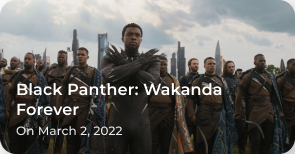
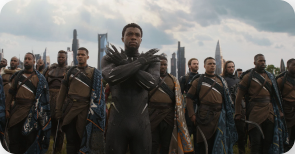
update

Changed region(s): [[0.0305, 0.5195, 0.7627, 0.6234], [0.0305, 0.8052, 0.4271, 0.8831], [0.0305, 0.6494, 0.2746, 0.7532]]

diff --git a/lib/app/pages/home_page.dart b/lib/app/pages/home_page.dart
@@ -1,6 +1,7 @@
 import 'package:flutter/material.dart';
 import 'package:flutter_svg/flutter_svg.dart';
 import 'package:template_project_flutter/app/core/theme/theme.dart';
+import 'package:template_project_flutter/app/data/models/home_carousel_models.dart';
 import 'package:template_project_flutter/widgets/home_card.dart';
 import 'package:template_project_flutter/widgets/home_carousel.dart';
 import 'package:template_project_flutter/widgets/inputs.dart';
@@ -15,6 +16,7 @@ class HomePage extends StatefulWidget {
 
 class _HomePageState extends State<HomePage> {
   int selectedIndex = 0;
+
   @override
   Widget build(BuildContext context) {
     return Scaffold(
@@ -22,20 +24,35 @@ class _HomePageState extends State<HomePage> {
         padding: const EdgeInsets.symmetric(horizontal: 24),
         children: [
           buildAccount(),
-          SizedBox(height: 32),
-          SearchBarInput(title: "Search a title...", width: double.infinity),
-          SizedBox(height: 24),
-          ImageCarousel(
-            images: [
-              'assets/images/carousel 3.png',
-              'assets/images/carousel 2.png',
-              'assets/images/carousel 4.png',
+          const SizedBox(height: 32),
+          const SearchBarInput(
+            title: "Search a title...",
+            width: double.infinity,
+          ),
+          const SizedBox(height: 24),
+          HomeCarousel(
+            items: const [
+              HomeCarouselItem(
+                imageUrl: 'assets/images/carousel 3.png',
+                title: 'Spider-Man: No Way Home',
+                subtitle: 'On March 2, 2022',
+              ),
+              HomeCarouselItem(
+                imageUrl: 'assets/images/carousel 2.png',
+                title: 'The Batman',
+                subtitle: 'On March 2, 2022',
+              ),
+              HomeCarouselItem(
+                imageUrl: 'assets/images/carousel 4.png',
+                title: 'Doctor Strange',
+                subtitle: 'On March 2, 2022',
+              ),
             ],
             initialPage: 1,
           ),
-          SizedBox(height: 24),
+          const SizedBox(height: 24),
           buildCategories(),
-          SizedBox(height: 24),
+          const SizedBox(height: 24),
           buildMostPopular(),
         ],
       ),
@@ -51,7 +68,7 @@ class _HomePageState extends State<HomePage> {
           Row(
             children: [
               Image.asset("assets/images/ic-profile-image.png", height: 40),
-              SizedBox(width: 16),
+              const SizedBox(width: 16),
               Column(
                 crossAxisAlignment: CrossAxisAlignment.start,
                 children: [
@@ -63,7 +80,7 @@ class _HomePageState extends State<HomePage> {
                     ),
                   ),
                   Text(
-                    "Let’s stream your favorite movie",
+                    "Let's stream your favorite movie",
                     style: greyTextStyle.copyWith(
                       fontSize: 12,
                       fontWeight: medium,
@@ -101,17 +118,13 @@ class _HomePageState extends State<HomePage> {
           "Categories",
           style: whiteTextStyle.copyWith(fontSize: 16, fontWeight: semiBold),
         ),
-        SizedBox(height: 15),
+        const SizedBox(height: 15),
         CategoryTabs(
-          categories: const [
-            'Tab Active',
-            'Tab Inactive',
-            'Tab Inactive',
-            'Tab Inactive',
-            'Another Tab',
-          ],
+          categories: const ['All', 'Action', 'Comedy', 'Drama', 'Horror'],
           initialIndex: 0,
-          onCategorySelected: (index, category) {},
+          onCategorySelected: (index, category) {
+            // Handle category selection
+          },
         ),
       ],
     );
@@ -144,42 +157,42 @@ class _HomePageState extends State<HomePage> {
         SingleChildScrollView(
           scrollDirection: Axis.horizontal,
           child: Row(
-            children: [
+            children: const [
               HomeCard(
                 imageUrl: "assets/images/card.png",
                 title: "Spider-Man No Way Home",
                 subTitle: 'Action',
                 rate: '4.8',
               ),
-              const SizedBox(width: 12),
+              SizedBox(width: 12),
               HomeCard(
                 imageUrl: "assets/images/card1.png",
                 title: "Eternals",
                 subTitle: 'Action',
                 rate: '4.5',
               ),
-              const SizedBox(width: 12),
+              SizedBox(width: 12),
               HomeCard(
                 imageUrl: "assets/images/card2.png",
                 title: "Venom",
                 subTitle: 'Action',
                 rate: '4.7',
               ),
-              const SizedBox(width: 12),
+              SizedBox(width: 12),
               HomeCard(
                 imageUrl: "assets/images/card.png",
                 title: "Shang-Chi",
                 subTitle: 'Action',
                 rate: '4.9',
               ),
-              const SizedBox(width: 12),
+              SizedBox(width: 12),
               HomeCard(
                 imageUrl: "assets/images/card1.png",
                 title: "Black Widow",
                 subTitle: 'Action',
                 rate: '4.6',
               ),
-              const SizedBox(width: 12),
+              SizedBox(width: 12),
               HomeCard(
                 imageUrl: "assets/images/card2.png",
                 title: "Dune",

diff --git a/lib/widgets/home_carousel.dart b/lib/widgets/home_carousel.dart
@@ -2,16 +2,17 @@ import 'package:extended_image/extended_image.dart';
 import 'package:flutter/material.dart';
 import 'package:smooth_page_indicator/smooth_page_indicator.dart';
 import 'package:template_project_flutter/app/core/theme/theme.dart';
+import 'package:template_project_flutter/app/data/models/home_carousel_models.dart';
 
-class ImageCarousel extends StatelessWidget {
-  final List<String> images;
+class HomeCarousel extends StatelessWidget {
+  final List<HomeCarouselItem> items;
   final double borderRadius;
   final int initialPage;
   final PageController _pageController;
 
-  ImageCarousel({
+  HomeCarousel({
     super.key,
-    required this.images,
+    required this.items,
     this.borderRadius = 16,
     this.initialPage = 0,
   }) : _pageController = PageController(
@@ -29,13 +30,61 @@ class ImageCarousel extends StatelessWidget {
           child: PageView.builder(
             controller: _pageController,
             physics: const BouncingScrollPhysics(),
-            itemCount: images.length,
+            itemCount: items.length,
             itemBuilder: (context, index) {
+              final item = items[index];
               return Padding(
                 padding: const EdgeInsets.symmetric(horizontal: 8),
-                child: ClipRRect(
-                  borderRadius: BorderRadius.circular(borderRadius),
-                  child: ExtendedImage.asset(images[index], fit: BoxFit.cover),
+                child: Stack(
+                  children: [
+                    ClipRRect(
+                      borderRadius: BorderRadius.circular(borderRadius),
+                      child: ExtendedImage.asset(
+                        item.imageUrl,
+                        fit: BoxFit.cover,
+                        width: double.infinity,
+                      ),
+                    ),
+                    Container(
+                      decoration: BoxDecoration(
+                        borderRadius: BorderRadius.circular(borderRadius),
+                        gradient: LinearGradient(
+                          begin: Alignment.topCenter,
+                          end: Alignment.bottomCenter,
+                          colors: [blackColor.withAlpha(45), blackColor],
+                        ),
+                      ),
+                    ),
+                    Positioned(
+                      left: 16,
+                      right: 16,
+                      bottom: 8,
+                      child: Column(
+                        crossAxisAlignment: CrossAxisAlignment.start,
+                        children: [
+                          Text(
+                            item.title,
+                            style: whiteTextStyle.copyWith(
+                              fontSize: 16,
+                              fontWeight: semiBold,
+                            ),
+                            maxLines: 1,
+                            overflow: TextOverflow.ellipsis,
+                          ),
+                          const SizedBox(height: 2),
+                          Text(
+                            item.subtitle,
+                            style: greyTextStyle.copyWith(
+                              fontSize: 12,
+                              fontWeight: medium,
+                            ),
+                            maxLines: 1,
+                            overflow: TextOverflow.ellipsis,
+                          ),
+                        ],
+                      ),
+                    ),
+                  ],
                 ),
               );
             },
@@ -44,7 +93,7 @@ class ImageCarousel extends StatelessWidget {
         const SizedBox(height: 12),
         SmoothPageIndicator(
           controller: _pageController,
-          count: images.length,
+          count: items.length,
           effect: WormEffect(
             dotHeight: 8,
             dotWidth: 8,
@@ -59,10 +108,22 @@ class ImageCarousel extends StatelessWidget {
 }
 
 // Usage
-// ImageCarousel(
-//             images: [
-//               'assets/images/carousel 2.png',
-//               'assets/images/carousel 3.png',
-//               'assets/images/carousel 4.png',
+// HomeCarousel(
+//             items: [
+//               CarouselItem(
+//                 imageUrl: 'assets/images/carousel 2.png',
+//                 title: 'Title 1',
+//                 subtitle: 'Subtitle 1',
+//               ),
+//               CarouselItem(
+//                 imageUrl: 'assets/images/carousel 3.png',
+//                 title: 'Title 2',
+//                 subtitle: 'Subtitle 2',
+//               ),
+//               CarouselItem(
+//                 imageUrl: 'assets/images/carousel 4.png',
+//                 title: 'Title 3',
+//                 subtitle: 'Subtitle 3',
+//               ),
 //             ],
 //           ),

diff --git a/lib/app/data/models/home_carousel_models.dart b/lib/app/data/models/home_carousel_models.dart
@@ -1,0 +1,11 @@
+class HomeCarouselItem {
+  final String imageUrl;
+  final String title;
+  final String subtitle;
+
+  const HomeCarouselItem({
+    required this.imageUrl,
+    required this.title,
+    required this.subtitle,
+  });
+}
